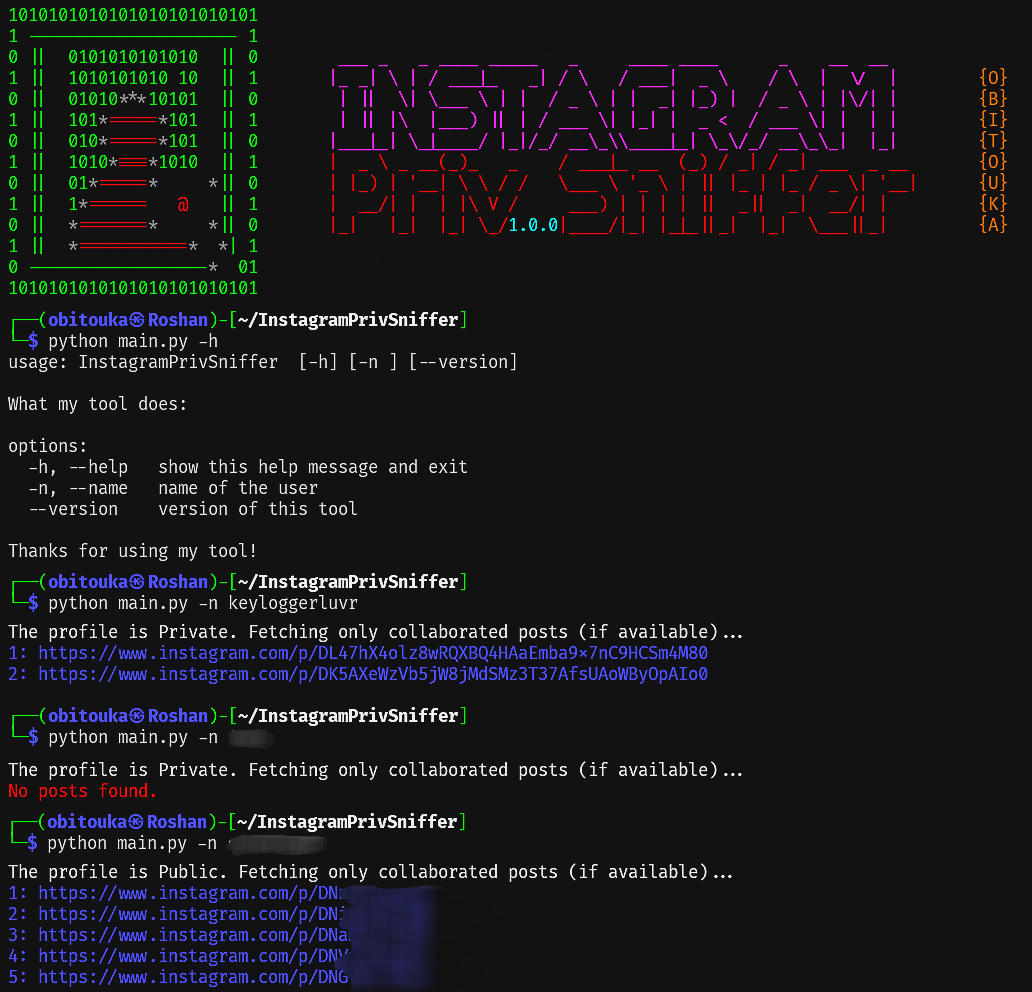
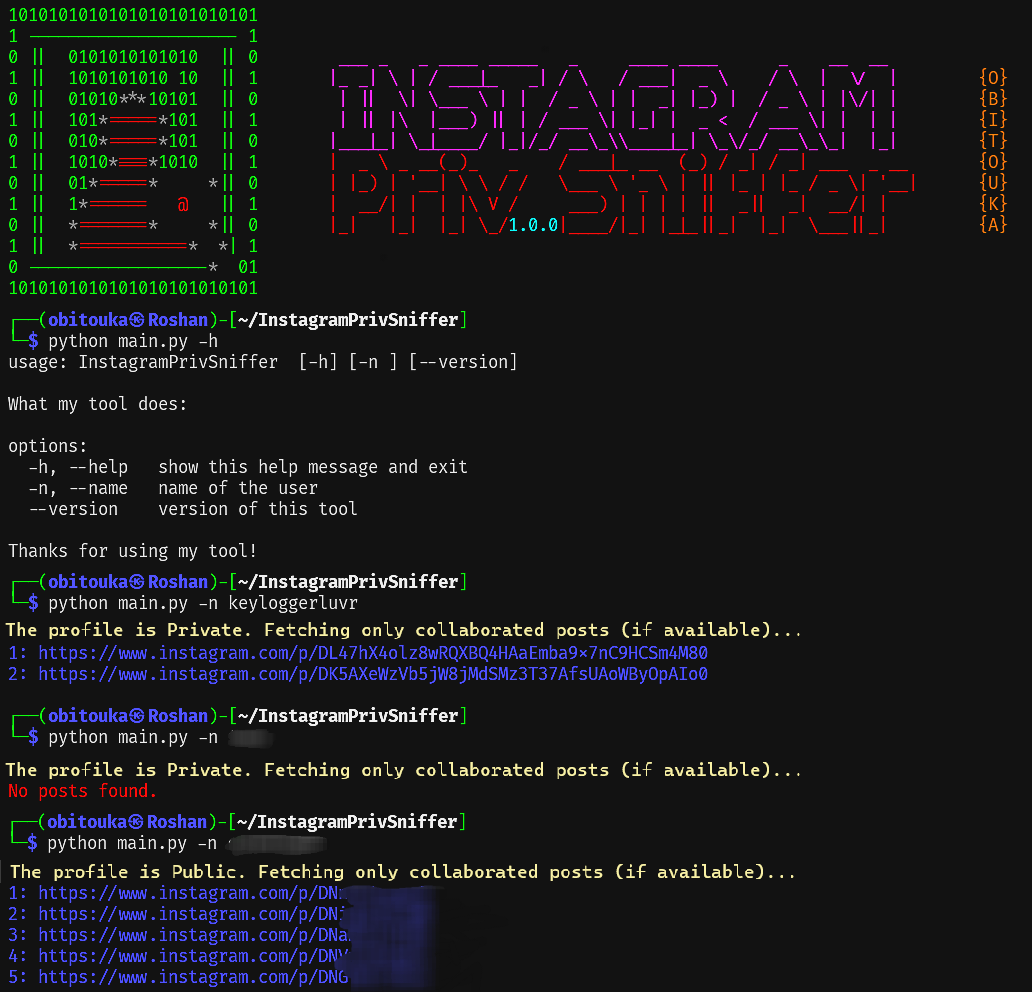
Minor Changes

Changed region(s): [[0.0, 0.875, 0.7442, 0.9062], [0.0, 0.75, 0.7442, 0.7812], [0.0, 0.625, 0.7442, 0.6562]]

diff --git a/core/fetcher.py b/core/fetcher.py
@@ -7,7 +7,7 @@ import requests
 
 from utils.colorPrinter import *
 
-def get_posts(username):
+def getPosts(username):
     url = f"https://www.instagram.com/api/v1/users/web_profile_info/?username={username}"
     headers = {
         "X-IG-App-ID": "936619743392459",
@@ -23,9 +23,9 @@ def get_posts(username):
         user_data = response.json()["data"]["user"]
 
         if user_data.get("is_private"):
-            colorPrint("The profile is Private. Fetching only collaborated posts (if available)...", LIGHTWHITE_EX)
+            colorPrint("The profile is Private. Fetching only collaborated posts (if available)...", LIGHTYELLOW_EX)
         else:
-            colorPrint("The profile is Public. Fetching only collaborated posts (if available)...", LIGHTWHITE_EX)
+            colorPrint("The profile is Public. Fetching only collaborated posts (if available)...", LIGHTYELLOW_EX)
 
         edges = user_data["edge_owner_to_timeline_media"]["edges"]
 

diff --git a/main.py b/main.py
@@ -3,15 +3,15 @@ Copyright (c) 2025 obitouka
 See the file 'LICENSE' for copying permission
 """
 
-from core.fetcher import get_posts
-from lib.banner import print_banner
+from core.fetcher import getPosts
+from lib.banner import printBanner
 from utils.parser import getArguments
 
 args = getArguments()
 
 if args.name:
-    print_banner()
-    get_posts(args.name)
+    printBanner()
+    getPosts(args.name)
 '''elif args.version:
     print(f"InstagramPrivSniffer {__version__}")
 '''

diff --git a/utils/colorPrinter.py b/utils/colorPrinter.py
@@ -12,7 +12,7 @@ RED = Fore.RED
 YELLOW = Fore.YELLOW
 
 LIGHTBLACK_EX = Fore.LIGHTBLACK_EX
-LIGHTWHITE_EX = Fore.LIGHTWHITE_EX
+LIGHTYELLOW_EX = Fore.LIGHTYELLOW_EX
 LIGHTBLUE_EX = Fore.LIGHTBLUE_EX
 LIGHTCYAN_EX = Fore.LIGHTCYAN_EX
 LIGHTMAGENTA_EX = Fore.LIGHTMAGENTA_EX

diff --git a/lib/banner.py b/lib/banner.py
@@ -36,5 +36,5 @@ logo = logo.replace("=", f"{RED}={logoCOLOR}")
 
 logo = logo.replace("*", f"{LIGHTBLACK_EX}*{logoCOLOR}")
 
-def print_banner():
+def printBanner():
     colorPrint(logo)

diff --git a/lib/version.py b/lib/version.py
@@ -3,4 +3,4 @@ Copyright (c) 2025 obitouka
 See the file 'LICENSE' for copying permission
 """
 
-__version__ = "1.0.0"
+__version__ = "1.0.1"

diff --git a/README.md b/README.md
@@ -11,7 +11,7 @@
    <td><img src="./assets/img/logo.png" width="125"/></td>
     <td>
       <!-- Instagram -->
-      <a href="https://git.io/typing-svg"><img src="https://readme-typing-svg.herokuapp.com?font=Audiowide&size=50&duration=1&pause=10&color=00F72F&vCenter=true&width=350&lines=INSTAGRAM&repeat=true" alt="INSTAGRAM" /></a><br>
+      <a href="https://git.io/typing-svg"><img src="https://readme-typing-svg.herokuapp.com?font=Audiowide&size=50&duration=1&pause=10&color=C20BBE&vCenter=true&width=350&lines=INSTAGRAM&repeat=true" alt="INSTAGRAM" /></a><br>
       <!-- PrivSniffer -->
       <a href="https://git.io/typing-svg"> <img src="https://readme-typing-svg.herokuapp.com?font=Audiowide&size=50&duration=1&pause=20&color=FF0000&vCenter=true&width=320&lines=PrivSniffer&repeat=true" alt="PrivSniffer" /></a>
     </td>
